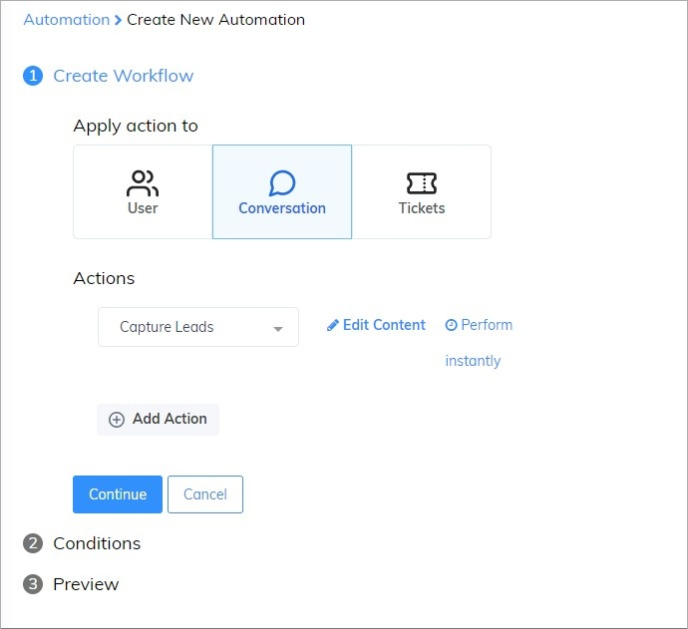
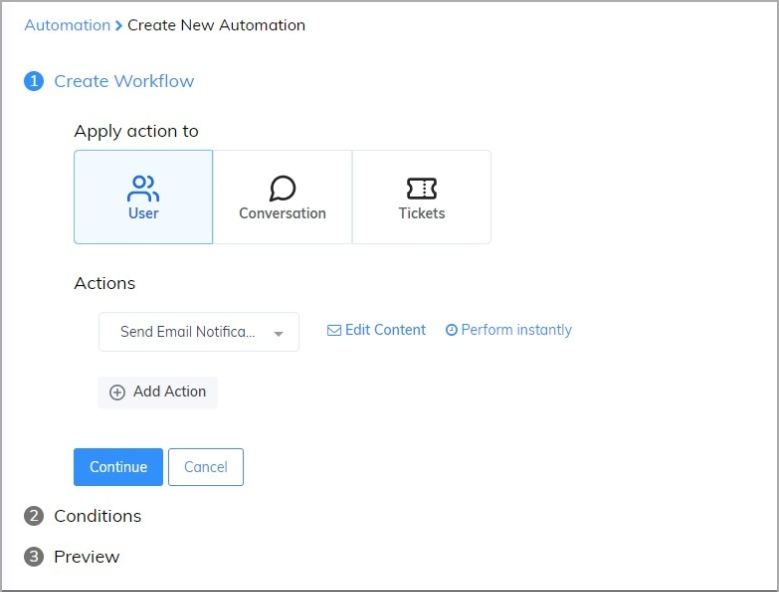
GitBook: [master] 3 pages and 6 assets modified

diff --git a/optimise-the-use-of-subiz/how-to-enhance-interactions/automation-applications/setting-up-to-receive-an-email-notification-when-users-update-information.md b/optimise-the-use-of-subiz/how-to-enhance-interactions/automation-applications/setting-up-to-receive-an-email-notification-when-users-update-information.md
@@ -1,0 +1,36 @@
+# Setting up to receive an email notification when users update information
+
+You have more chance to attract and increase interaction with a user who leaves their information. 
+
+Except for the support you ask the user’s information automatically, Automation can help you receive an email notification when users left their information via widget chat. In the meantime, you and your co-worker can log into the account, follow the user’s queries and reconnected if they leave your website. 
+
+The following article will guide how to receive an email notification when users update information 
+
+### Step 1: Set up the content of email notification 
+
+In order to create Automation send an email notification, you access via this link: [Automation -&gt; Workflow -&gt; Create. ](https://app.subiz.com/settings/automation-workflow)
+
+Next, you will select the object to set up Automation: 
+
+![Select the object to set up Automation](../../../.gitbook/assets/tao-automation%20%282%29.png)
+
+After choosing an **Apply action to the user** and action **Send Email notification**, you could **edit the content of the email** and fill in the email address that received notification. 
+
+![Adjust content of the email](../../../.gitbook/assets/noi-dung-email.png)
+
+### Step 2: Set up conditions 
+
+After completing the setup of the email content of Send Email Notification, click **Continue** to move to the next step. 
+
+![Set up conditions](../../../.gitbook/assets/cai-dat-dieu-kien.png)
+
+### Step 3: Give a name to Automation 
+
+After finishing setting up the condition, click Continue to go to the last step. 
+
+![](../../../.gitbook/assets/luu-ten.png)
+
+Automation will run when users fill their information via widget chat or Capture leads \([See more](https://help-en.subiz.com/optimise-the-use-of-subiz/how-to-enhance-interactions/some-common-automations/capture-leads)\). In the meantime, your team will receive an email notification as below:
+
+![Receive an email notification](../../../.gitbook/assets/noi-dung-email-nhan-duoc.png)
+

diff --git a/SUMMARY.md b/SUMMARY.md
@@ -57,6 +57,7 @@
       * [Capture leads base on business hour](optimise-the-use-of-subiz/how-to-enhance-interactions/automation-applications/capture-leads-base-on-business-hour.md)
       * [Classify and follow up a potential user](optimise-the-use-of-subiz/how-to-enhance-interactions/automation-applications/classify-and-follow-up-a-potential-user.md)
       * [Manage Customer Support with Email Transcript](optimise-the-use-of-subiz/how-to-enhance-interactions/automation-applications/manage-customer-support-with-email-transcript.md)
+      * [Setting up to receive an email notification when users update information](optimise-the-use-of-subiz/how-to-enhance-interactions/automation-applications/setting-up-to-receive-an-email-notification-when-users-update-information.md)
   * [Managing user data](optimise-the-use-of-subiz/managing-data/README.md)
     * [Users segmentation](optimise-the-use-of-subiz/managing-data/customer-segmentation/README.md)
       * [View Default Segments](optimise-the-use-of-subiz/managing-data/customer-segmentation/utilizing-default-segments.md)

diff --git a/optimise-the-use-of-subiz/how-to-enhance-interactions/some-common-automations/capture-leads.md b/optimise-the-use-of-subiz/how-to-enhance-interactions/some-common-automations/capture-leads.md
@@ -18,7 +18,7 @@ You will follow 3 steps as below:
 
 #### Step 1: Create Work follow
 
-![Create Workflow](../../../.gitbook/assets/tao-automation%20%282%29.png)
+![Create Workflow](../../../.gitbook/assets/tao-automation%20%283%29.png)
 
 After choosing Apply action to conversation and action Capture Leads, you could edit content of form for your own.
 
